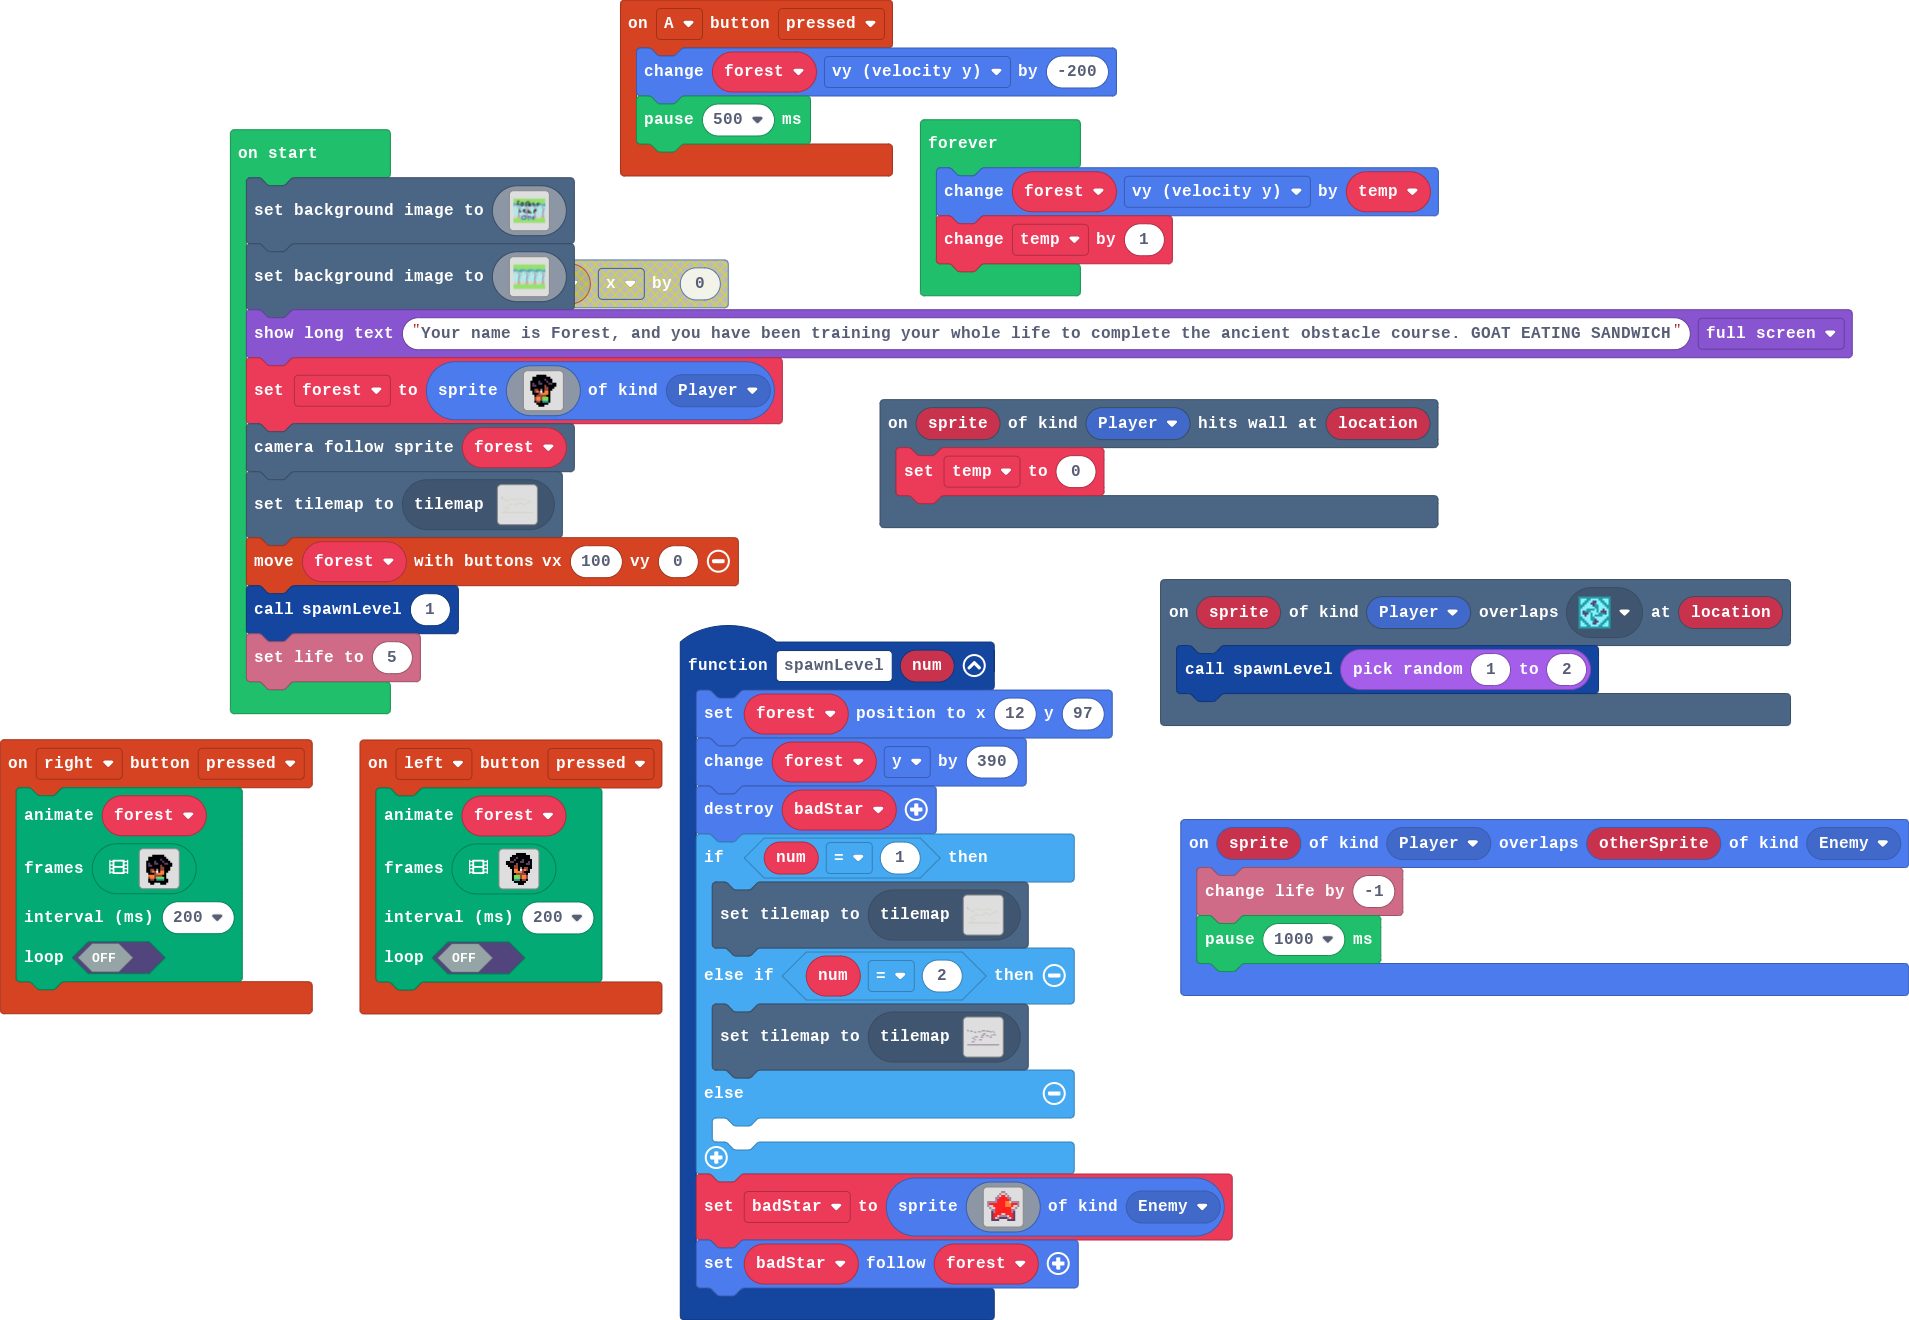
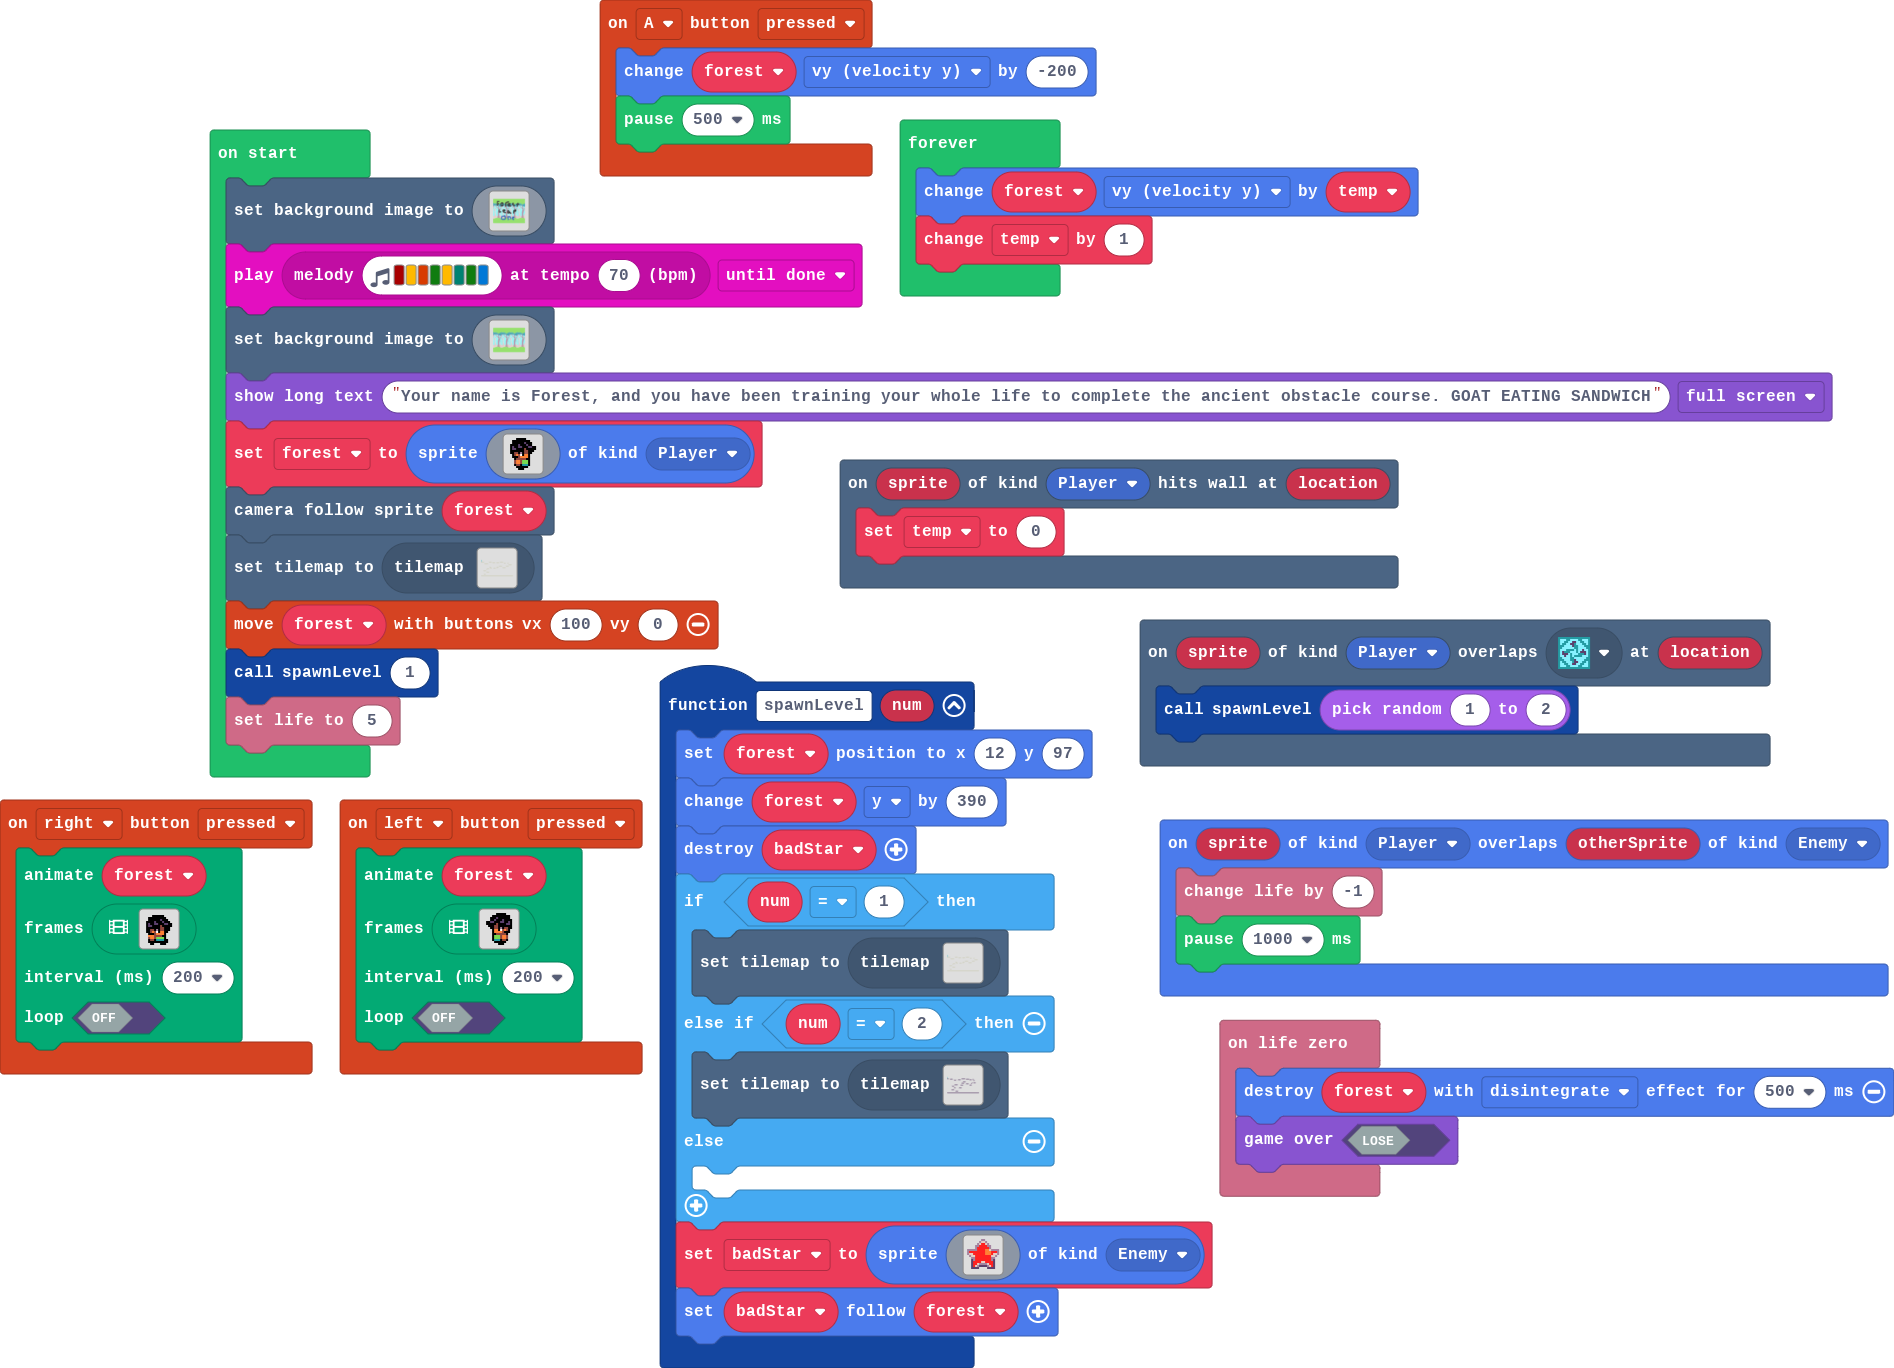
Update main.blocks, main.ts, tilemap.g.jres, tilemap.g.ts

diff --git a/tilemap.g.ts b/tilemap.g.ts
@@ -117,7 +117,7 @@ namespace myTiles {
 . . . . . . . . . . . . . . . . 
 `, [myTiles.transparency16], TileScale.Sixteen);
             case "two":
-            case "level6":return tiles.createTilemap(hex`400020000200000000000000000000000000000000000000000000000000000000000000000000000000000000000000000000000000000000000000000000000000000002000000000000000000000000000000000000000000000000000000000000000000000000000000000000000000000000000000000000000000000000000000020000000000000000000000000000000000000000000000000000000000000000000000000000000000000000000000000000000000000000000000000000000101010000000000000000000000000000000000000000000000000000010101010101010000000000000000000000000000000000000000000000000000000000000000000001010101010000000000000000000000000000000000000000000000000000000101010101010000000000000001000000000000000000000000000000000000000000000000000000000000000000000101010101000000000000000000000000000000000000010101010000000100000000000000000000000000000000000000000000000000010101010000000000000000000000000000000000000000000000000000000000000000000000010000000000000000000000000000000000000000000000000000000000000000000000000000000000000000000000000000000000000000000000000000000001000000000000000000000000000000000000000000000000000000000000000000000000000000000000000000000000000000000000000000000000000000000000000000000000000000000000000000000000000000000000000000000000000000000000000000010101010100000000000000000000000000000000000000000000000000000000000000000000000000000000000000000000000000000000000000000000000000000000000000000000000000000000000000000000000000000000000000000000000000000000000000000000000000000000000000000000000000000000000000000000000000000000000000000001000001010101000000000000000000000000000000000000000000000000000000000000000000000000010101010100000000000000000000000000000001000000000000000000000000000000000000000000000000000000000000000000000000000000000000000000000000000000000101010101000000000001000000000000000000000000000000000000000000000000000000000000000000000000000000000000000000000000000000000000000000000000000000000000000000000000000000000000000000000000000000000000000000000101010101010000000000000000000000000000000000000000000000000000000000000000000000000000000000000000000000000000000000000000000000000000000000000000000001010101010000000000000000000000000001010101000000000000000000000000000000000000000000000000000000000000000000000000000000000000000000000000000000000000000000000000000000000000000000000000000000000000000000000000000000000001010101000000000000000000000000000000000000000000000000000000000000000000000000000000000000000000000000000000000000000000000000000000000000000000000000000000000000000000000000000000000000000000000000000000000000000000000000000000000000000000000000000000000000000000000000000000000000000000000000000000000000000000000000000000000000000000000000000000000000000000000000000000000000000000000000010101000000000000000101010101000000000000000000000000000000000000000000000000000000000000000000000000000000000000000000000000000000000000000000000000000000000000000000000000000000000000000000000000000000000000000000000000000000000000000000000000000000000000000000000000000000000000000000000000000000000000000000000000000000000000000000000000000000000000000000000000000000000000000000000000000000000000000000000000000000000000000000000000000000000000000000000000000000000000000000000000000000000000000001010101010000000000000000000000000000000000000000000000000000000000000000000000000000000000000000000000000000000000000000000000000000000000000000000000000000000000000000000000000000000000000000000000000000000000000000000000000000000000000000000000000000000000000000000000000000000000000000000000000000000000000000000000000000000000000000000000000000000000000000000000000000000000000000000000000000000000000000000000000000000000000000000000000000000000000000000000000000000000000000000000000000000000000000000000000000000000000000000000000000000000000000000000000000000000000000000000000000000000000000000000000000000000000000000000000000000000000000000000000000000000000000000000000000000000000000000000000000000000000000000000000000000000000000000001010101010101010101010101010101010101010101010101010101010101010101010101010101010101010101010101010101010101010101010101010101`, img`
+            case "level6":return tiles.createTilemap(hex`400020000200000000000000000000000000000000000000000000000000000000000000000000000000000000000000000000000000000000000000000000000000000002000000000000000000000000000000000000000000000000000000000000000000000000000000000000000000000000000000000000000000000000000000020000000000000000000000000000000000000000000000000000000000000000000000000000000000000000000000000000000000000000000000000000000101010000000000000000000000000000000000000000000000000000010101010101010000000000000000000000000000000000000000000000000000000000000000000001010101010000000000000000000000000000000000000000000000000000000101010101010000000000000001000000000000000000000000000000000000000000000000000000000000000000000101010101000000000000000000000000000000000000010101010000000100000000000000000000000000000000000000000000000000010101010000000000000000000000000000000000000000000000000000000000000000000000010000000000000000000000000000000000000000000000000000000000000000000000000000000000000000000000000000000000000000000000000000000001000000000000000000000000000000000000000000000000000000000000000000000000000000000000000000000000000000000000000000000000000000000000000000000000000000000000000000000000000000000000000000000000000000000000000000010101010100000000000000000000000000000000000000000000000000000000000000000000000000000000000000000000000000000000000000000000000000000000000000000000000000000000000000000000000000000000000000000000000000000000000000000000000000000000000000000000000000000000000000000000000000000000000000000001000001010101000000000000000000000000000000000000000000000000000000000000000000000000010101010100000000000000000000000000000001000000000000000000000000000000000000000000000000000000000000000000000000000000000000000000000000000000000101010101000000000001000000000000000000000000000000000000000000000000000000000000000000000000000000000000000000000000000000000000000000000000000000000000000000000000000000000000000000000000000000000000000000000101010101010000000000000000000000000000000000000000000000000000000000000000000000000000000000000000000000000000000000000000000000000000000000000000000001010101010000000000000000000000000001010101000000000000000000000000000000000000000000000000000000000000000000000000000000000000000000000000000000000000000000000000000000000000000000000000000000000000000000000000000000000001010101000000000000000000000000000000000000000000000000000000000000000000000000000000000000000000000000000000000000000000000000000000000000000000000000000000000000000000000000000000000000000000000000000000000000000000000000000000000000000000000000000000000000000000000000000000000000000000000000000000000000000000000000000000000000000000000000000000000000000000000000000000000000000000000000010101000000000000000101010101000000000000000000000000000000000000000000000000000000000000000000000000000000000000000000000000000000000000000000000000000000000000000000000000000000000000000000000000000000000000000000000000000000000000000000000000000000000000000000000000000000000000000000000000000000000000000000000000000000000000000000000000000000000000000000000000000000000000000000000000000000000000000000000000000000000000000000000000000000000000000000000000000000000000000000000000000000000000000001010101010000000000000000000000000000000000000000000000000000000000000000000000000000000000000000000000000000000000000000000000000000000000000000000000000000000000000000000000000000000000000000000000000000000000000000000000000000000000000000000000000000000000000000000000000000000000000000000000000000000000000000000000000000000000000000000000000000000000000000000000000000000000000000000000000000000101010101000000000000000000000000000000000000000000000000000000000000000000000000000000000000000000000000000000000000000000000000000000000000000000000000000000000000000000000000000000000000000000000000000000000000000000000000000000000000000000000000000000000000000000000000000000000000000000000000000000000000000000000000000000000000000000000000000001010101010101010101010101010101010101010101010101010101010101010101010101010101010101010101010101010101010101010101010101010101`, img`
 ................................................................
 ................................................................
 ................................................................
@@ -146,7 +146,7 @@ namespace myTiles {
 .........22222..................................................
 ................................................................
 ................................................................
-................................................................
+.................22222..........................................
 ................................................................
 ................................................................
 2222222222222222222222222222222222222222222222222222222222222222

diff --git a/main.ts b/main.ts
@@ -137,6 +137,10 @@ controller.right.onEvent(ControllerButtonEvent.Pressed, function () {
     false
     )
 })
+info.onLifeZero(function () {
+    sprites.destroy(forest, effects.disintegrate, 500)
+    game.gameOver(false)
+})
 scene.onOverlapTile(SpriteKind.Player, sprites.dungeon.collectibleInsignia, function (sprite, location) {
     spawnLevel(randint(1, 2))
 })
@@ -148,6 +152,7 @@ let temp = 0
 let badStar: Sprite = null
 let forest: Sprite = null
 scene.setBackgroundImage(assets.image`start`)
+music.play(music.stringPlayable("C5 A B G A F G E ", 70), music.PlaybackMode.UntilDone)
 scene.setBackgroundImage(assets.image`normalBG`)
 game.showLongText("Your name is Forest, and you have been training your whole life to complete the ancient obstacle course. GOAT EATING SANDWICH", DialogLayout.Full)
 forest = sprites.create(assets.image`idle`, SpriteKind.Player)
